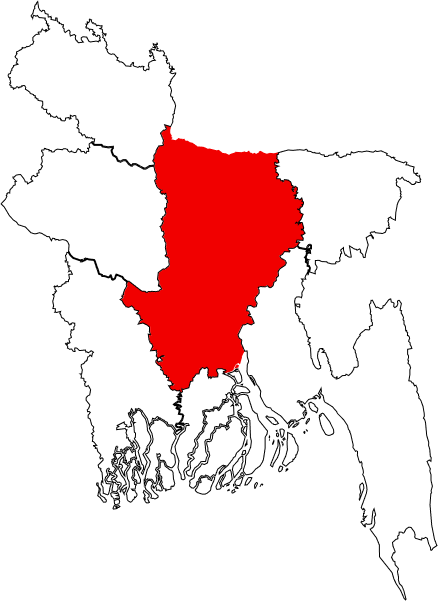
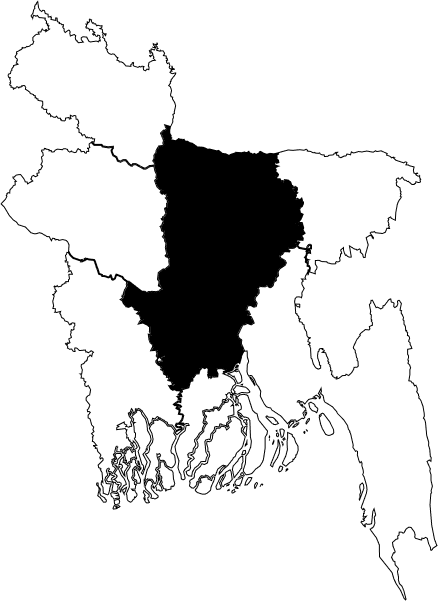
done ready to deploy

Changed region(s): [[0.2671, 0.2093, 0.7123, 0.6578]]

diff --git a/index.html b/index.html
@@ -10,7 +10,7 @@
 		<div class="container">
 			<div class="navigation">
 				<h1>Find Your Place</h1>
-				<ul>
+				<ul id="divison">
 					<li id="sylhet">Sylhet</li>
 					<li id="rajshahi">Rajshahi</li>
 					<li id="rangpur">Rangpur</li>
@@ -21,8 +21,45 @@
 				</ul>
 			</div>
 			<div class="map">
-				<img src="img/blank.png" alt="" />
+				<img id="showMap" src="img/blank.png" alt="" />
 			</div>
 		</div>
+		<script>
+			const getDivison = document.getElementById("divison");
+
+			//img
+			const showImg = document.getElementById("showMap");
+			//btn
+			const sylhetBtn = document.getElementById("sylhet");
+			const rajshahiBtn = document.getElementById("rajshahi");
+			const rangpurBtn = document.getElementById("rangpur");
+			const khulnaBtn = document.getElementById("khulna");
+			const dhakaBtn = document.getElementById("dhaka");
+			const chittagongBtn = document.getElementById("chittagong");
+			const barisalBtn = document.getElementById("barisal");
+
+			//Event Listene
+			sylhetBtn.addEventListener("click", function() {
+				showImg.src = "img/map-sylet.png";
+			});
+			rajshahiBtn.addEventListener("click", function() {
+				showImg.src = "img/map-rajshashi.png";
+			});
+			rangpurBtn.addEventListener("click", function() {
+				showImg.src = "img/map-ragpur.png";
+			});
+			khulnaBtn.addEventListener("click", function() {
+				showImg.src = "img/map-khulna.png";
+			});
+			dhakaBtn.addEventListener("click", function() {
+				showImg.src = "img/map-dhaka.png";
+			});
+			chittagongBtn.addEventListener("click", function() {
+				showImg.src = "img/map-ctg.png";
+			});
+			barisalBtn.addEventListener("click", function() {
+				showImg.src = "img/map-barishal.png";
+			});
+		</script>
 	</body>
 </html>

diff --git a/main.css b/main.css
@@ -58,6 +58,7 @@ body {
 	cursor: pointer;
 	color: #878787;
 	letter-spacing: 1px;
+	transition: 2s all ease-in-out;
 }
 
 .map {
@@ -69,4 +70,5 @@ body {
 .map img {
 	max-width: 100%;
 	height: auto;
+	transition: 0.5s all ease-in-out;
 }
